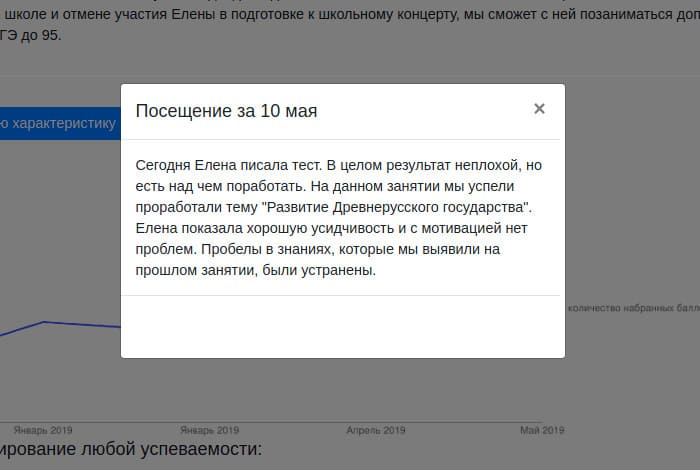
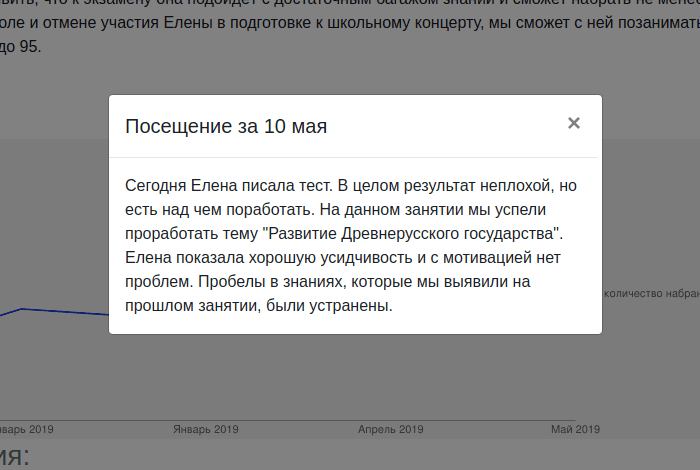
Style characteristic. add new feedback.

Changed region(s): [[0.0, 0.1787, 1.0, 0.7745], [0.0, 0.0, 1.0, 0.1191], [0.0, 0.8936, 0.87, 1.0]]

diff --git a/app/assets/stylesheets/characteristics/characteristic.scss b/app/assets/stylesheets/characteristics/characteristic.scss
@@ -1,3 +1,5 @@
+$border_dark: 2px solid #343a40;
+
 .attendance-list {
   .attend_small {
     display: inline-block;
@@ -32,10 +34,14 @@
   }
 }
 
+
 .characteristic-description {
-  border-left: 2px solid white;
-  border-bottom: 2px solid white;
-  border-right: 2px solid white;
+
+  border-left: $border_dark;
+  border-bottom: $border_dark;
+  border-right: $border_dark;
+
+
 
   box-shadow: 0 -5px 3px white;
   border-radius: 0 0 10px 10px;
@@ -46,6 +52,10 @@
 
 .chart-image-full {
   display: block;
+  padding-left: 15px;
+  //box-shadow: 0 0 3px 0 #3f8ed9;
+  border-radius: 15px;
+  border: $border_dark
 }
 
 .chart-image-mobile {

diff --git a/app/assets/css/style.scss b/app/assets/css/style.scss
@@ -793,7 +793,13 @@ fieldset {
 }
 
 
-
+@media (max-width: 768px) {
+  .single-testimonial p {
+    line-height: 1.2;
+    text-align: center;
+    font-size: 14px;
+  }
+}
 
 
 /* ----------------------------------------------------------------------------------------
@@ -1382,6 +1388,8 @@ fieldset {
     background-position: center center;
     background-attachment: fixed;
     position: relative;
+
+    height: 250px;
 }
 
 .client-area:before {
@@ -1395,7 +1403,7 @@ fieldset {
 }
 .owl-client {}
 .owl-client .item {
-    padding: 30px;
+    padding: 0px;
 }
 .owl-client .item img {
     width: auto;

diff --git a/app/assets/stylesheets/pagination.scss b/app/assets/stylesheets/pagination.scss
@@ -1,0 +1,14 @@
+.pagination {
+  .active {
+    a {
+      background-color: grey !important;
+      border-color: black !important;
+    }
+  }
+
+  .page-item {
+    a {
+      color: black;
+    }
+  }
+}

diff --git a/app/assets/stylesheets/common.scss b/app/assets/stylesheets/common.scss
@@ -198,7 +198,7 @@ body {
 }
 
 .blue {
-  color: #00b7ea;
+  color: #3f8ed9;
 }
 
 .handle {

diff --git a/app/controllers/characteristics_controller.rb b/app/controllers/characteristics_controller.rb
@@ -23,8 +23,8 @@ class CharacteristicsController < ApplicationController
 
     @chart = Gchart.line(  size: '1000x300',
                           title: "График успеваемости",
-                          bg: 'f3f3f3',
-                          bar_colors: '0000FF',
+                          bg: 'white',
+                          bar_colors: '3f8ed9',
                           legend: 'количество набранных баллов по ЕГЭ',
                           axis_with_labels: [['x'], ['y']],
                           min_value: 0,
